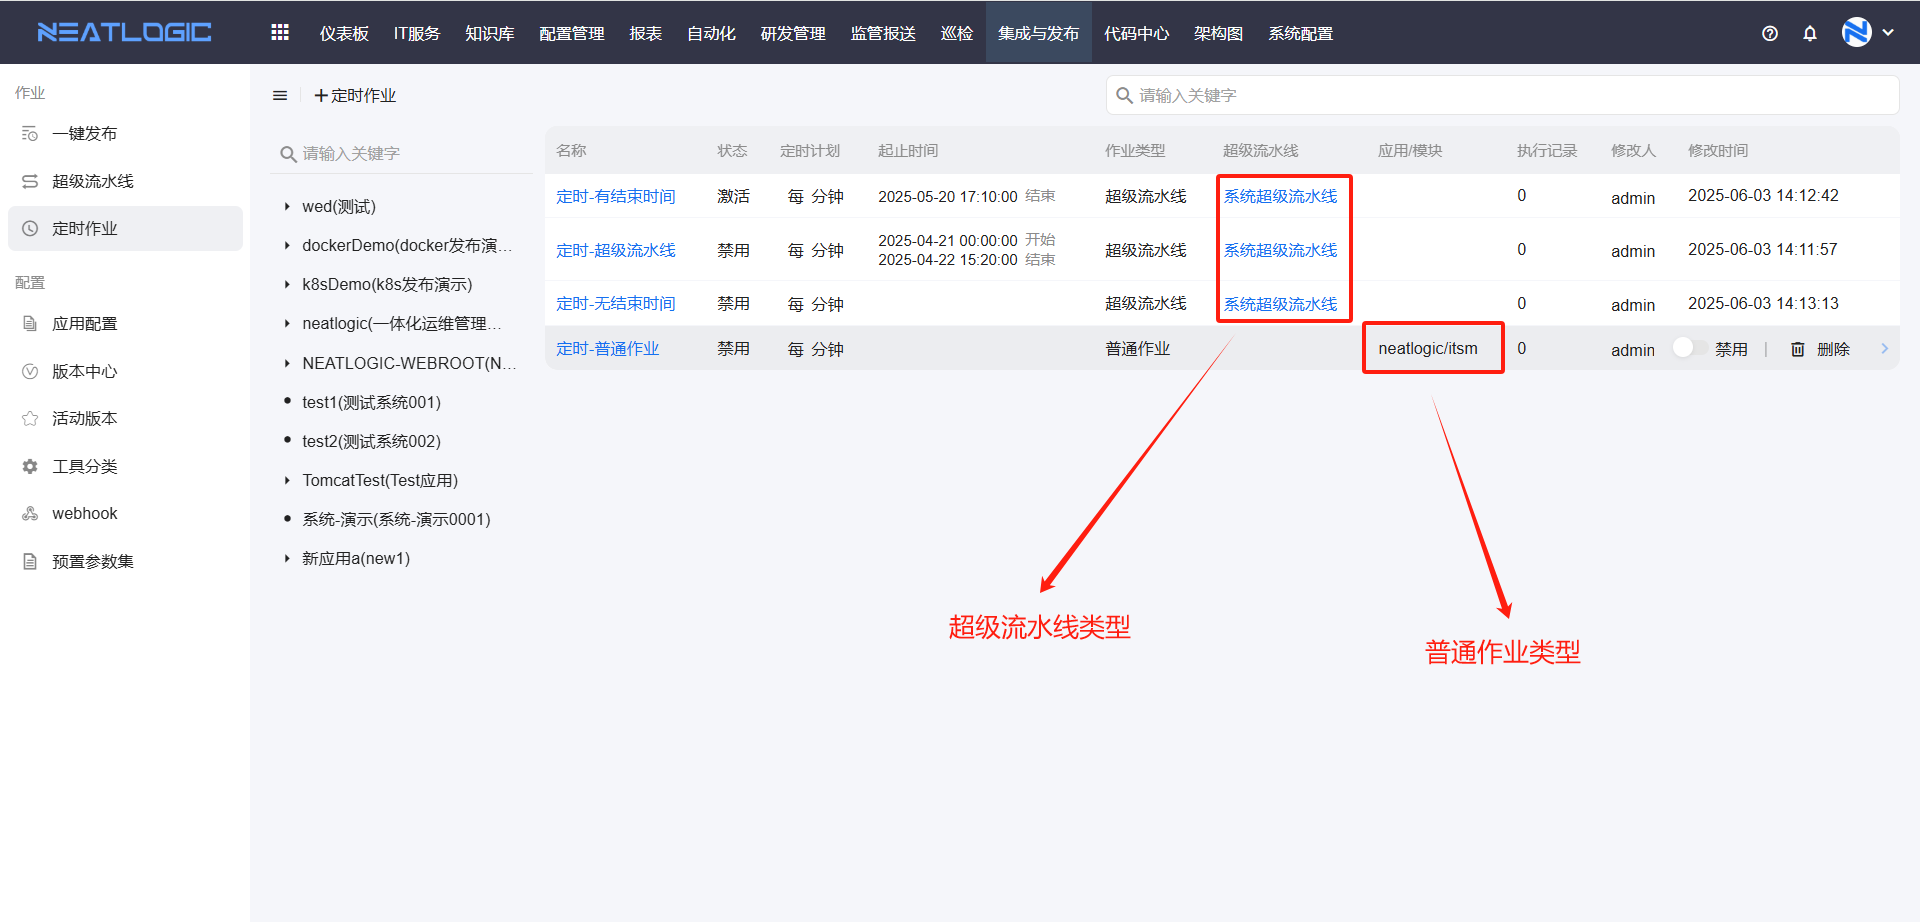
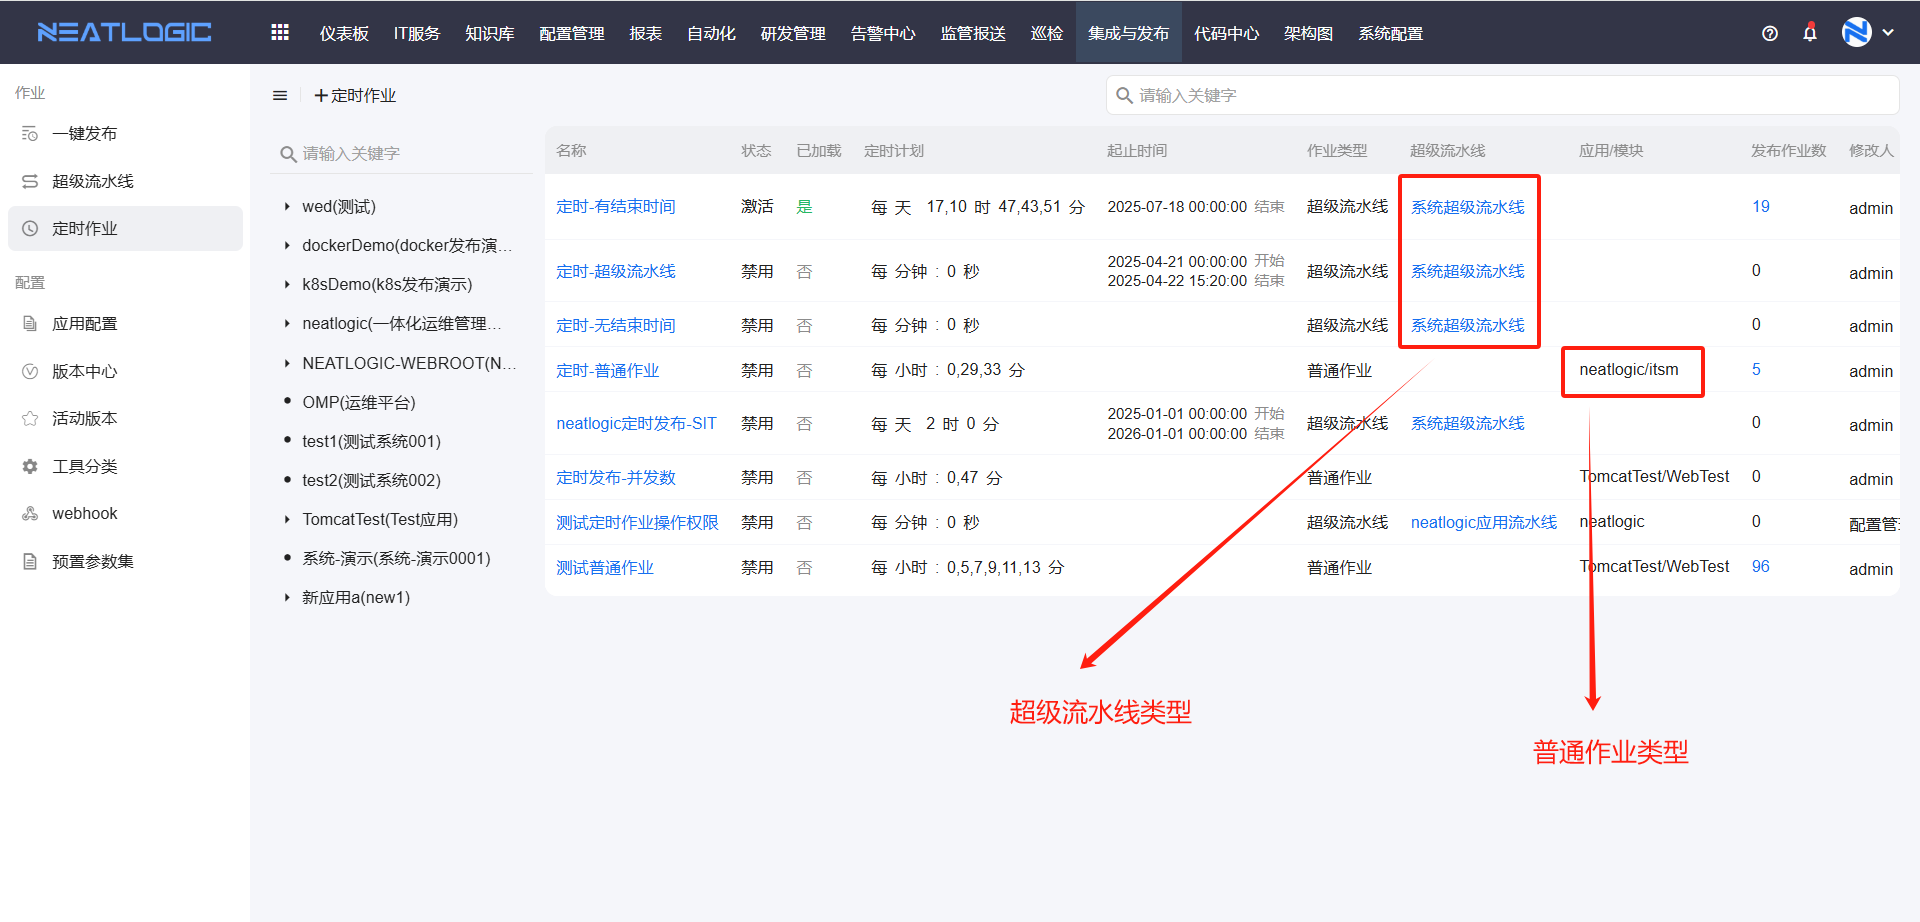
更新定时作业文档

diff --git a/src/main/resources/neatlogic/resources/documentonline/zh/6.集成与发布/定时作业.md b/src/main/resources/neatlogic/resources/documentonline/zh/6.集成与发布/定时作业.md
@@ -27,12 +27,41 @@
 
 1. 状态是“激活”
    ![](images/定时作业_激活.png)
-2. 无起止时间或当前时间在起止时间范围内
+2. 已加载，说明下次执行时间在定时作业的起止时间范围内
    ![](images/定时作业_时间范围.png)
 
 定时作业还支持查看执行作业，点击执行记录的数字，出现执行作业列表，如图所示。
 
 ## 相关权限
-菜单权限：有发布基础权限的用户，才能看到定时作业菜单。
-批量发布管理权限：
-应用超级流水线-执行权限：
+1. 菜单权限
+   
+   有发布定时管理权限的用户，才能看到定时作业菜单。
+   ![](images/定时作业_菜单权限.png)
+
+2. 查看包含应用的定时作业
+   
+   定时作业左侧的应用列表存在的应用模块才能添加对应的普通作业
+   ![](images/定时作业_应用列表.png)
+   回显的应用都是用户有查看配置、编辑配置、权限、执行执行权限的应用
+   ![](images/定时作业_查看应用定时作业权限.png)
+
+3. 添加普通作业的定时作业
+   
+   添加普通作业的定时作业时，只能选择有执行权限的应用
+   ![](images/定时作业_普通作业可选应用.png)
+   应用执行权限
+   ![](images/定时作业_普通作业_权限.png)
+
+4. 添加应用流水线的定时作业
+
+   添加应用流水线的定时作业时，只能选择有执行权限的应用
+   ![](images/定时作业_应用超级流水线可选应用.png)
+   应用执行权限
+   ![](images/定时作业_普通作业_权限.png)
+
+5. 添加全局流水线的定时作业
+   
+   添加全局流水线的定时作业时，只回显有执行权限的全局流水线
+   ![](images/定时作业_可选全局流水线.png)
+   全局流水线-执行权限
+   ![](images/定时作业_全局流水线_权限.png)
